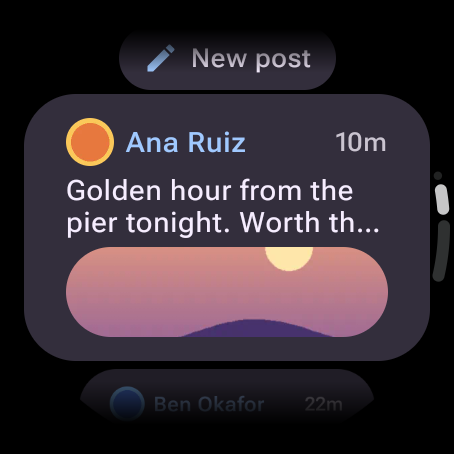
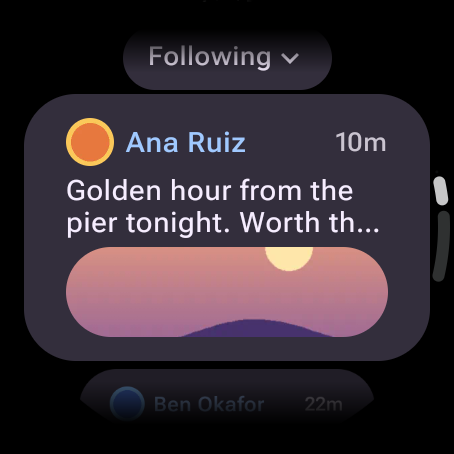
chore(wear): capture the launcher tile as the 6th Wear store screenshot (#1210)
* chore(wear): capture the launcher tile as the 6th Wear store screenshot

WO-G5 recommends a tile screenshot when an app offers Tiles, and none of
the five Wear captures showed it. The system tile host draws the tile
outside the app, so WearMarketingScreenshotJourney now adds it with the
Wear debug-surface broadcast (add-tile), swipes to it from the watch
face (Wear OS 7 has no show-tile; older hosts use it), waits for the
bench's 2-unread render and captures 06_tile.png through screengrab,
then removes the tile again. Raw 1:1, unframed, like the other five.

Refs: nubecita-f4e5

* chore(wear): refresh the feed and post store screenshots

The landing screen (#1181) took the New post shortcut out of the feed
header, which now shows only the feed switcher, so 01_feed showed a
header the app no longer has. 02_post shifts a few pixels with the new
header height. 03-05 only re-render with antialiasing noise and are kept.

Refs: nubecita-f4e5

* fix(fastlane): keep the Wear screenshot preview page linked after renaming

wear_screenshots strips screengrab's capture timestamp from the PNGs, but
screengrab's local screenshots.html still linked the timestamped names,
so the preview showed broken images. Apply the same rename to its links.

Refs: nubecita-f4e5

* fix(wear): keep the tile journey's cleanup from masking its failure
[…]

diff --git a/wear/app/src/androidTest/kotlin/net/kikin/nubecita/wear/screenshots/WearMarketingScreenshotJourney.kt b/wear/app/src/androidTest/kotlin/net/kikin/nubecita/wear/screenshots/WearMarketingScreenshotJourney.kt
@@ -1,6 +1,8 @@
 package net.kikin.nubecita.wear.screenshots
 
+import android.content.ComponentName
 import android.os.SystemClock
+import android.util.Log
 import androidx.test.core.app.ActivityScenario
 import androidx.test.ext.junit.runners.AndroidJUnit4
 import androidx.test.platform.app.InstrumentationRegistry
@@ -10,6 +12,7 @@ import androidx.test.uiautomator.Until
 import net.kikin.nubecita.wear.BuildConfig
 import net.kikin.nubecita.wear.MainActivity
 import net.kikin.nubecita.wear.R
+import net.kikin.nubecita.wear.widget.LauncherWidgetService
 import org.junit.Assert.assertTrue
 import org.junit.Assume.assumeTrue
 import org.junit.Before
@@ -27,7 +30,9 @@ import tools.fastlane.screengrab.locale.LocaleTestRule
  * Runs against the bench flavor only (a signed-in fake session and a fixed
  * clock, no paired phone needed); the production variant skips it. Captures
  * are raw full-screen 1:1 images with no frame, as Play requires for Wear
- * (WO-G5).
+ * (WO-G5). The last one is the launcher tile, which the system tile host draws
+ * outside the app, so the journey adds it to the carousel with the Wear
+ * debug-surface broadcast and captures the host's screen.
  */
 @RunWith(AndroidJUnit4::class)
 class WearMarketingScreenshotJourney {
@@ -84,6 +89,75 @@ class WearMarketingScreenshotJourney {
         }
     }
 
+    @Test
+    fun launcherTile() {
+        val context = InstrumentationRegistry.getInstrumentation().targetContext
+        val tile = ComponentName(context, LauncherWidgetService::class.java).flattenToString()
+        // Drop any copy a previous run left behind, so the tile is added fresh at a known index.
+        debugSurface("remove-tile --ecn component $tile")
+        try {
+            // Inside the try, so the tile is removed again even if its index can't be read.
+            val added = debugSurface("add-tile --ecn component $tile")
+            val index =
+                INDEX
+                    .find(added)
+                    ?.groupValues
+                    ?.get(1)
+                    ?.toInt() ?: error("add-tile failed: $added")
+            showTile(index)
+            // The full-screen tile with the bench's unread count. A partial-height Wear OS 7
+            // watch shows the short widget card instead, which has no tile container: use a
+            // full-screen-tile emulator (e.g. Wear OS Large Round) for this capture.
+            assertTrue("tile never showed", device.wait(Until.hasObject(By.res(SYSUI, "carousel_tile_container")), TIMEOUT_MS))
+            val newMessages = context.resources.getQuantityString(R.plurals.wear_widget_new_messages, BENCH_UNREAD)
+            assertTrue("tile never rendered the unread count", device.wait(Until.hasObject(By.text(newMessages)), TIMEOUT_MS))
+            // Let the carousel finish settling the page in.
+            device.waitForIdle()
+            SystemClock.sleep(SETTLE_MS)
+            Screengrab.screenshot("06_tile")
+        } finally {
+            // Leave the watch's tiles as they were. Best effort: a failure here must not
+            // mask the assertion that failed above.
+            try {
+                debugSurface("remove-tile --ecn component $tile")
+                goToWatchFace()
+            } catch (e: Exception) {
+                Log.w(TAG, "Couldn't remove the launcher tile after capturing it", e)
+            }
+        }
+    }
+
+    /**
+     * Brings tile [index] on screen: `show-tile` where the debug surface has it
+     * (Wear OS 6 and older); on Wear OS 7, which only adds and removes tiles,
+     * swipes there from the watch face.
+     */
+    private fun showTile(index: Int) {
+        if (DEBUG_SURFACE_OK in debugSurface("show-tile --ei index $index")) return
+        assertTrue("watch face never showed", goToWatchFace())
+        repeat(index + 1) {
+            device.swipe(device.displayWidth * 9 / 10, device.displayHeight / 2, device.displayWidth / 10, device.displayHeight / 2, SWIPE_STEPS)
+            device.waitForIdle()
+        }
+    }
+
+    /**
+     * Home toggles between the watch face and the app launcher, so press it
+     * until the watch face shows with no tile over it. False if it never does.
+     */
+    private fun goToWatchFace(): Boolean {
+        repeat(3) {
+            device.pressHome()
+            device.waitForIdle()
+            SystemClock.sleep(SETTLE_MS)
+            if (device.hasObject(By.res(SYSUI, "watchface_overlay_container")) && !device.hasObject(By.res(SYSUI, "carousel_tile_container"))) return true
+        }
+        return false
+    }
+
+    /** Sends a Wear debug-surface operation as the shell user and returns `am`'s output. */
+    private fun debugSurface(operation: String): String = device.executeShellCommand("am broadcast -a com.google.android.wearable.app.DEBUG_SURFACE --es operation $operation")
+
     /** A string in the app's current locale, so the journey matches whichever locale it captures. */
     private fun appString(id: Int): String = InstrumentationRegistry.getInstrumentation().targetContext.getString(id)
 
@@ -102,6 +176,17 @@ class WearMarketingScreenshotJourney {
         private const val TIMEOUT_MS = 10_000L
         private const val SWIPE_STEPS = 40
         private const val SETTLE_MS = 1_000L
+        private const val SYSUI = "com.google.android.clockwork.sysui"
+        private const val TAG = "WearScreenshotJourney"
+
+        /** The bench repository's unread DM count, which the tile shows. */
+        private const val BENCH_UNREAD = 2
+
+        /** `am broadcast` reports a debug-surface success as result=1. */
+        private const val DEBUG_SURFACE_OK = "result=1"
+
+        /** `add-tile` answers with the new tile's carousel position. */
+        private val INDEX = Regex("""Index=\[(\d+)]""")
 
         @get:ClassRule
         @JvmStatic
